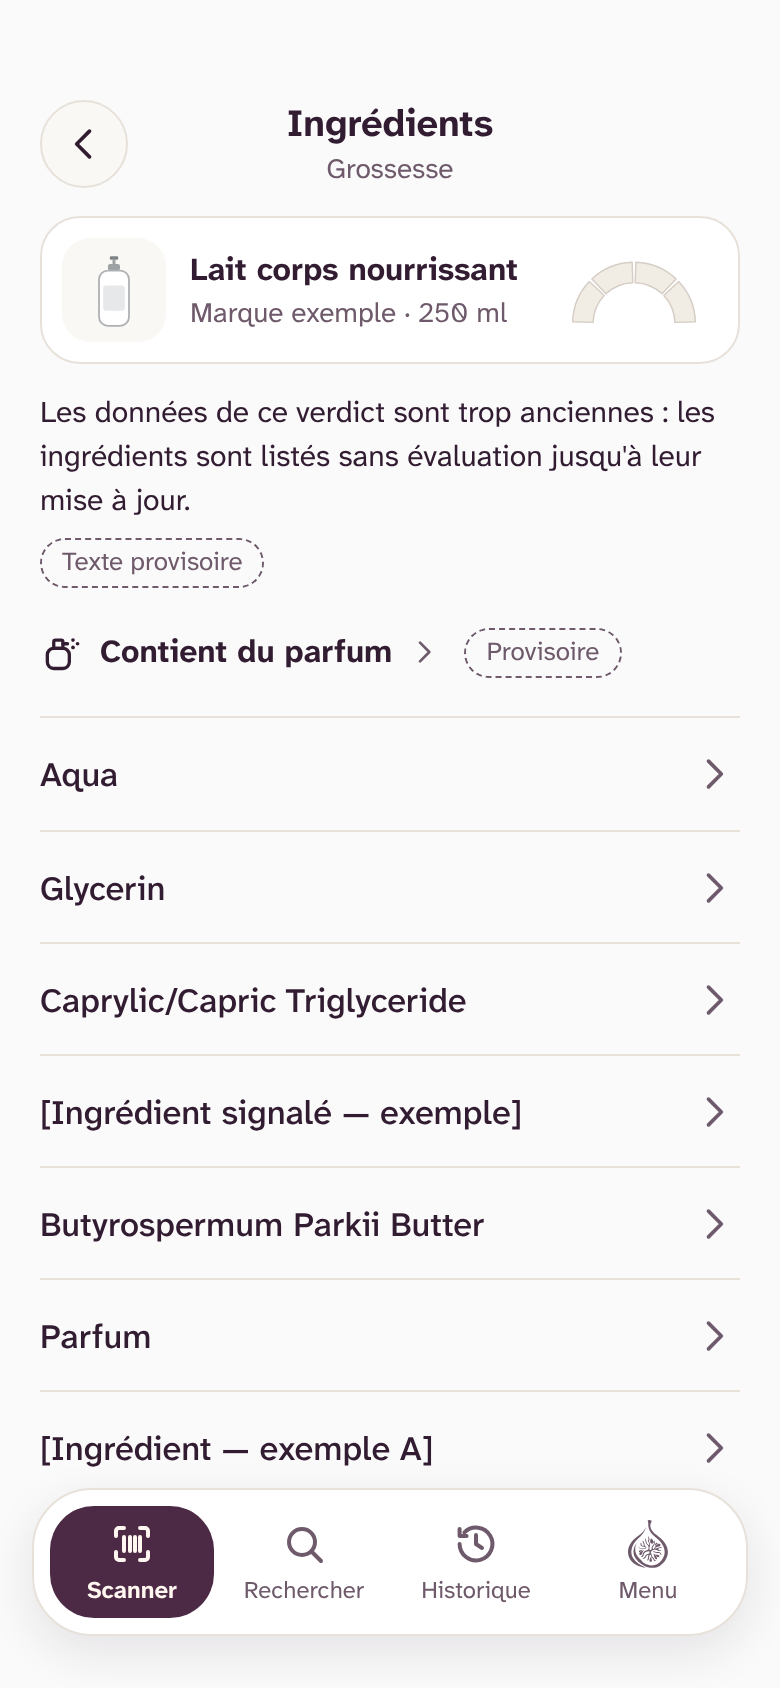
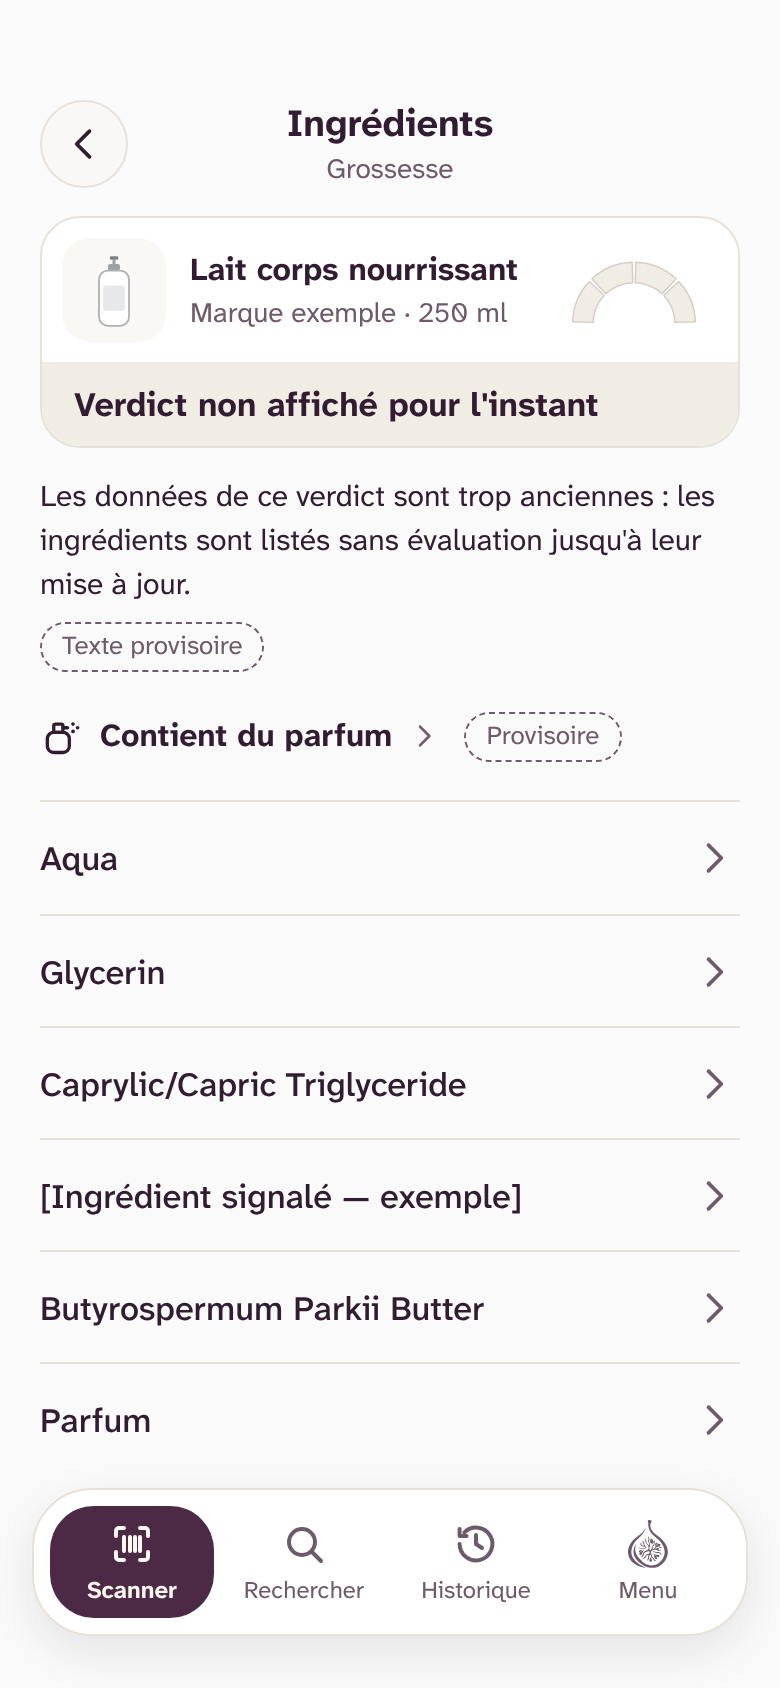
Listes : bandeau grisé avec son motif quand le verdict n'est pas établi (porteuse, 01/11)
Étape 3 : « Évaluation incomplète · ingrédient non reconnu », « Évaluation incomplète · type de produit
non précisé », « Verdict non affiché pour l'instant » (mots des écrans de verdict). Ligne allaitement :
« Évaluation incomplète », ou « Évaluation incomplète pour la tétée ». Gris #F1ECE4, celui de l'arc sans
niveau. Les motifs composés sont des propositions de texte.

Claude-Session: https://claude.ai/code/session_01XpJQNRJMYuEgguGKdobeVx

diff --git a/prototype/sources/project/EA-Ingredients-Baume.dc.html b/prototype/sources/project/EA-Ingredients-Baume.dc.html
@@ -385,8 +385,10 @@ class Component extends DCLogic {
       rangLabel: incomplet ? 'Niveau non établi' : 'Niveau ' + (lvl + 1) + ' sur 4',
       heads: heads, hasParfum: hasParfum, parfumTop: heads.length ? '8px' : '10px',
       listTop: (heads.length || hasParfum) ? '10px' : '10px',
-      // Idée 5 à plat (porteuse, 30/10 et 01/11) : le verdict rappelé sous le produit, sur la couleur du niveau ; rien quand l'évaluation est incomplète.
-      showBand: !incomplet, verdictLabel: incomplet ? '' : N[lvl].replace(/^\d · /, ''), verdictBg: c.bg, verdictFg: c.fg,
+      // Idée 5 à plat (porteuse, 30/10 et 01/11) : le verdict rappelé sous le produit, sur la couleur du niveau ;
+      // évaluation incomplète : un bandeau grisé, avec son motif (porteuse, 01/11).
+      showBand: true, verdictLabel: !incomplet ? N[lvl].replace(/^\d · /, '') : (lvl === 4 ? 'Évaluation incomplète' : 'Évaluation incomplète pour la tétée'),
+      verdictBg: incomplet ? '#F1ECE4' : c.bg, verdictFg: incomplet ? '#321C31' : c.fg,
       parf: { bg: 'transparent', fg: '#321C31', bord: '0', pad: '0 4px', marge: '-4px', chev: '#6E5A6B' },
       items: items, open: !!it, sel: sel,
       openParfum: function () { self.setState({ sel: 'parfum', closed: false, mention: null }); },

diff --git a/prototype/sources/project/EA-Ingredients-Gel.dc.html b/prototype/sources/project/EA-Ingredients-Gel.dc.html
@@ -385,8 +385,10 @@ class Component extends DCLogic {
       rangLabel: incomplet ? 'Niveau non établi' : 'Niveau ' + (lvl + 1) + ' sur 4',
       heads: heads, hasParfum: hasParfum, parfumTop: heads.length ? '8px' : '10px',
       listTop: (heads.length || hasParfum) ? '10px' : '10px',
-      // Idée 5 à plat (porteuse, 30/10 et 01/11) : le verdict rappelé sous le produit, sur la couleur du niveau ; rien quand l'évaluation est incomplète.
-      showBand: !incomplet, verdictLabel: incomplet ? '' : N[lvl].replace(/^\d · /, ''), verdictBg: c.bg, verdictFg: c.fg,
+      // Idée 5 à plat (porteuse, 30/10 et 01/11) : le verdict rappelé sous le produit, sur la couleur du niveau ;
+      // évaluation incomplète : un bandeau grisé, avec son motif (porteuse, 01/11).
+      showBand: true, verdictLabel: !incomplet ? N[lvl].replace(/^\d · /, '') : (lvl === 4 ? 'Évaluation incomplète' : 'Évaluation incomplète pour la tétée'),
+      verdictBg: incomplet ? '#F1ECE4' : c.bg, verdictFg: incomplet ? '#321C31' : c.fg,
       parf: { bg: 'transparent', fg: '#321C31', bord: '0', pad: '0 4px', marge: '-4px', chev: '#6E5A6B' },
       items: items, open: !!it, sel: sel,
       openParfum: function () { self.setState({ sel: 'parfum', closed: false, mention: null }); },

diff --git a/prototype/sources/project/EA-Ingredients-Lait.dc.html b/prototype/sources/project/EA-Ingredients-Lait.dc.html
@@ -385,8 +385,10 @@ class Component extends DCLogic {
       rangLabel: incomplet ? 'Niveau non établi' : 'Niveau ' + (lvl + 1) + ' sur 4',
       heads: heads, hasParfum: hasParfum, parfumTop: heads.length ? '8px' : '10px',
       listTop: (heads.length || hasParfum) ? '10px' : '10px',
-      // Idée 5 à plat (porteuse, 30/10 et 01/11) : le verdict rappelé sous le produit, sur la couleur du niveau ; rien quand l'évaluation est incomplète.
-      showBand: !incomplet, verdictLabel: incomplet ? '' : N[lvl].replace(/^\d · /, ''), verdictBg: c.bg, verdictFg: c.fg,
+      // Idée 5 à plat (porteuse, 30/10 et 01/11) : le verdict rappelé sous le produit, sur la couleur du niveau ;
+      // évaluation incomplète : un bandeau grisé, avec son motif (porteuse, 01/11).
+      showBand: true, verdictLabel: !incomplet ? N[lvl].replace(/^\d · /, '') : (lvl === 4 ? 'Évaluation incomplète' : 'Évaluation incomplète pour la tétée'),
+      verdictBg: incomplet ? '#F1ECE4' : c.bg, verdictFg: incomplet ? '#321C31' : c.fg,
       parf: { bg: 'transparent', fg: '#321C31', bord: '0', pad: '0 4px', marge: '-4px', chev: '#6E5A6B' },
       items: items, open: !!it, sel: sel,
       openParfum: function () { self.setState({ sel: 'parfum', closed: false, mention: null }); },

diff --git a/prototype/sources/project/EA-Ingredients-Spray.dc.html b/prototype/sources/project/EA-Ingredients-Spray.dc.html
@@ -385,8 +385,10 @@ class Component extends DCLogic {
       rangLabel: incomplet ? 'Niveau non établi' : 'Niveau ' + (lvl + 1) + ' sur 4',
       heads: heads, hasParfum: hasParfum, parfumTop: heads.length ? '8px' : '10px',
       listTop: (heads.length || hasParfum) ? '10px' : '10px',
-      // Idée 5 à plat (porteuse, 30/10 et 01/11) : le verdict rappelé sous le produit, sur la couleur du niveau ; rien quand l'évaluation est incomplète.
-      showBand: !incomplet, verdictLabel: incomplet ? '' : N[lvl].replace(/^\d · /, ''), verdictBg: c.bg, verdictFg: c.fg,
+      // Idée 5 à plat (porteuse, 30/10 et 01/11) : le verdict rappelé sous le produit, sur la couleur du niveau ;
+      // évaluation incomplète : un bandeau grisé, avec son motif (porteuse, 01/11).
+      showBand: true, verdictLabel: !incomplet ? N[lvl].replace(/^\d · /, '') : (lvl === 4 ? 'Évaluation incomplète' : 'Évaluation incomplète pour la tétée'),
+      verdictBg: incomplet ? '#F1ECE4' : c.bg, verdictFg: incomplet ? '#321C31' : c.fg,
       parf: { bg: 'transparent', fg: '#321C31', bord: '0', pad: '0 4px', marge: '-4px', chev: '#6E5A6B' },
       items: items, open: !!it, sel: sel,
       openParfum: function () { self.setState({ sel: 'parfum', closed: false, mention: null }); },

diff --git a/prototype/sources/project/E3-Ingredients-Actualiser.dc.html b/prototype/sources/project/E3-Ingredients-Actualiser.dc.html
@@ -336,7 +336,9 @@ class Component extends DCLogic {
     }
     return {
       isG: !allait, isA: allait, ligne: allait ? 'Allaitement' : 'Grossesse',
-      verdictLabel: OPTS[i].replace(/^\d · /, ''), verdictBg: c.bg, verdictFg: c.fg, showBand: !allait && !sansNiveau,
+      // Sans verdict établi, un bandeau grisé dit pourquoi (porteuse, 01/11) ; les mots sont ceux de l'écran de verdict.
+      verdictLabel: !sansNiveau ? OPTS[i].replace(/^\d · /, '') : ['', 'Évaluation incomplète · ingrédient non reconnu', 'Évaluation incomplète · type de produit non précisé', "Verdict non affiché pour l'instant"][ev],
+      verdictBg: sansNiveau ? '#F1ECE4' : c.bg, verdictFg: sansNiveau ? '#321C31' : c.fg, showBand: !allait,
       isRince: rince, notRince: !rince,
       rang: String(i + 1), s: s,
       showDetLink: hasDet,

diff --git a/prototype/sources/project/E3-Ingredients-Incomplet.dc.html b/prototype/sources/project/E3-Ingredients-Incomplet.dc.html
@@ -336,7 +336,9 @@ class Component extends DCLogic {
     }
     return {
       isG: !allait, isA: allait, ligne: allait ? 'Allaitement' : 'Grossesse',
-      verdictLabel: OPTS[i].replace(/^\d · /, ''), verdictBg: c.bg, verdictFg: c.fg, showBand: !allait && !sansNiveau,
+      // Sans verdict établi, un bandeau grisé dit pourquoi (porteuse, 01/11) ; les mots sont ceux de l'écran de verdict.
+      verdictLabel: !sansNiveau ? OPTS[i].replace(/^\d · /, '') : ['', 'Évaluation incomplète · ingrédient non reconnu', 'Évaluation incomplète · type de produit non précisé', "Verdict non affiché pour l'instant"][ev],
+      verdictBg: sansNiveau ? '#F1ECE4' : c.bg, verdictFg: sansNiveau ? '#321C31' : c.fg, showBand: !allait,
       isRince: rince, notRince: !rince,
       rang: String(i + 1), s: s,
       showDetLink: hasDet,

diff --git a/prototype/sources/project/E3-Ingredients-TypeNonPrecise.dc.html b/prototype/sources/project/E3-Ingredients-TypeNonPrecise.dc.html
@@ -336,7 +336,9 @@ class Component extends DCLogic {
     }
     return {
       isG: !allait, isA: allait, ligne: allait ? 'Allaitement' : 'Grossesse',
-      verdictLabel: OPTS[i].replace(/^\d · /, ''), verdictBg: c.bg, verdictFg: c.fg, showBand: !allait && !sansNiveau,
+      // Sans verdict établi, un bandeau grisé dit pourquoi (porteuse, 01/11) ; les mots sont ceux de l'écran de verdict.
+      verdictLabel: !sansNiveau ? OPTS[i].replace(/^\d · /, '') : ['', 'Évaluation incomplète · ingrédient non reconnu', 'Évaluation incomplète · type de produit non précisé', "Verdict non affiché pour l'instant"][ev],
+      verdictBg: sansNiveau ? '#F1ECE4' : c.bg, verdictFg: sansNiveau ? '#321C31' : c.fg, showBand: !allait,
       isRince: rince, notRince: !rince,
       rang: String(i + 1), s: s,
       showDetLink: hasDet,
